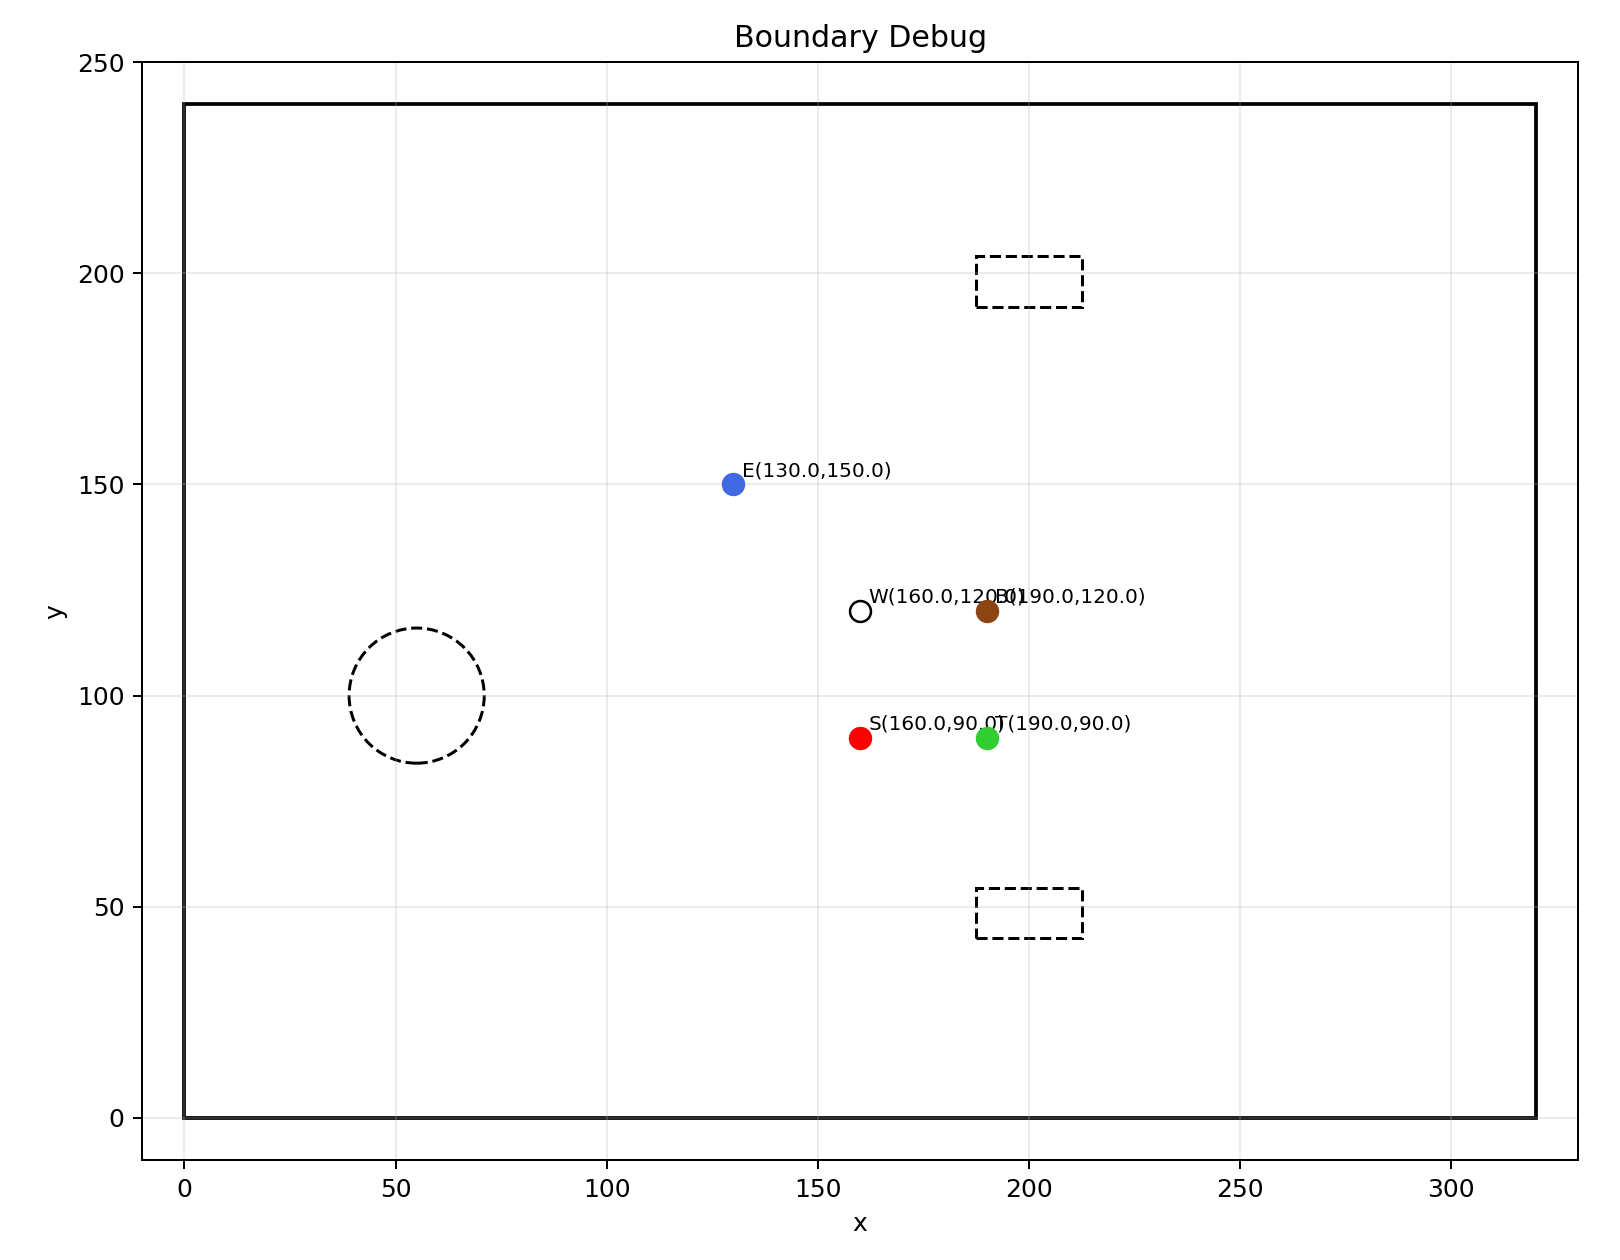
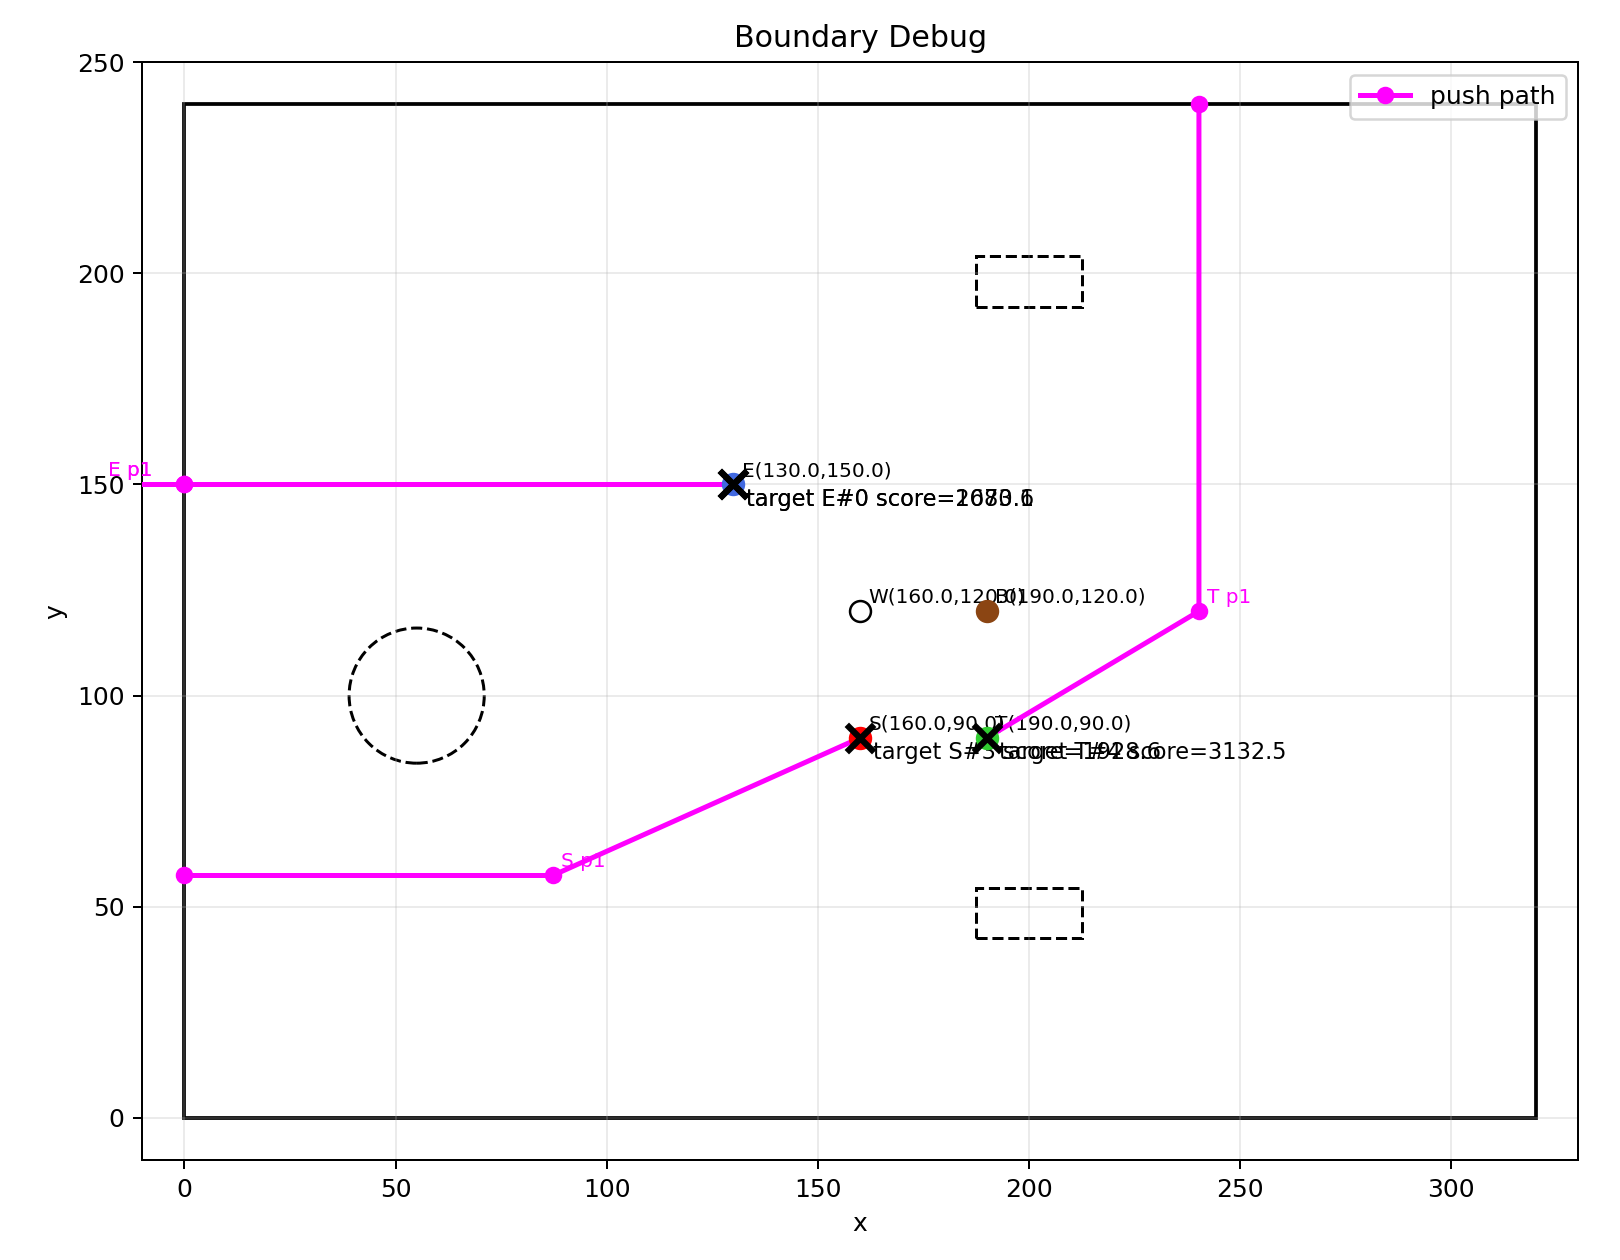
调整速度计算和导航路径，优化滤波器参数以提升性能

diff --git a/main_car/ant_boundary_plan.py b/main_car/ant_boundary_plan.py
@@ -323,7 +323,7 @@ class objects_planner:
         self.last_sandbag_idx = -1
         self.now_idx = 0
         self.judge_start_ticks = 0
-        self.run_speed = self.flash_sys.find_value("long_v_max")
+        self.run_speed = self.flash_sys.find_value("long_v_max") * 0.656467 * 0.72 # 0.656467为速度转换系数，把long_v_max转换为理论的厘米每秒速度，0.72转换为实际
         self.nine_grid = [['','',''],
                           ['','',''],
                           ['','',''],]
@@ -627,10 +627,9 @@ class objects_planner:
                     y1 = i[3] - py
                     y2 = self.my_car.y_current - py
                     distance_from_car = math.sqrt(x1 * x1 + y1 * y1) + math.sqrt(x2 * x2 + y2 * y2)
-                dis_score = 9.69*180/self.run_speed
+                dis_score = 1250 / self.run_speed # 1500为行进途中每秒对应的分数
                 score += push_distance + push_angle*push_angle +distance_from_car*dis_score
-                # 注意：write_str 已禁用，注释掉避免每物体一次无用的字符串分配
-                # self.my_write.write_str("object {} push_dis:{} angle:{} dis:{}\n".format(i[1], push_distance, push_angle*push_angle, distance_from_car*dis_score))
+                self.my_write.write_str("object {} push_dis:{} angle:{} dis:{}\n".format(i[1], push_distance, push_angle*push_angle, distance_from_car*dis_score))
                 self.target_score.append(score)
                 self.now_idx+=1
                 # print("[judge][state2] object {} score cost {} ms".format(i[1], time.ticks_diff(time.ticks_ms(), t_target)))

diff --git a/main_car/user_main.py b/main_car/user_main.py
@@ -465,24 +465,27 @@ def time_pit1_handler(time):
         my_fan.if_fan = False
     """
 
+time__ = 0
 # 定时器3中断处理函数：路径规划与速度规划计算
-def time_pit3_handler(time) -> None:
+def time_pit3_handler(timer) -> None:
+    global time__
     # 角度环计算（10ms）
     angle_pid_compute()
 
     # 任务执行机
     task_machine()
 
-    # 全向定位测试程序
     """
+    # 全向定位测试程序
     if my_state.state == READY_NAVIGATE:
         # my_path.plan_path(245.0, 56.0)
         # my_uart3.write(f"ready_path: {my_path.ready_path}\n")
         my_state.state = NAVIGATE
+        time__ = time.ticks_ms()
         my_car.x_current = 0.0
         my_car.y_current = 0.0
     elif my_state.state == NAVIGATE:
-        my_plan.navigate(path = [[-0.0, 150.0]], target_turn_angle = 30.0)
+        my_plan.navigate(path = [[100.0, 0.0]], target_turn_angle = 0.0)
         # my_plan.navigate(path = [[50.0, 30.0], [50.0, 100.0]], target_turn_angle = 30.0)
         # my_plan.navigate(path = [[160,0],[160,240],[0,240],[-160,240],[-160,0],[0,0]])
         # my_plan.navigate(path = [[-100,20.0],[50, 100.0],[0,240],[130,70],[100,-30],[-10,60],[20,10],[0,0]])
@@ -494,6 +497,7 @@ def time_pit3_handler(time) -> None:
             my_plan.reset_navigate_angle()
             my_state.state = STOP
             my_beep.test()
+            print(f"Navigation finished in {time.ticks_diff(time.ticks_ms(), time__)} ms")
     elif my_state.state == STOP:
         my_plan.stop()
         my_uart3.write(f"x: {my_car.x_current},y: {my_car.y_current}\n")

diff --git a/slave_car/user_main.py b/slave_car/user_main.py
@@ -234,8 +234,8 @@ car_yaw_fil = ant_motor.SlipAveragingFilter(1)
 sin_servo_fil = ant_motor.SlipAveragingFilter(4)    
 cos_servo_fil = ant_motor.SlipAveragingFilter(4)
 # 创建距离控制滤波对象
-dist_fil_L = ant_motor.SlipAveragingFilter(5)
-dist_fil_R = ant_motor.SlipAveragingFilter(5)
+dist_fil_L = ant_motor.SlipAveragingFilter(4)
+dist_fil_R = ant_motor.SlipAveragingFilter(4)
 
 # 创建姿态数据对象
 pose_data = ant_motor.PoseData(my_flash_sys, my_uart3, imu, encoder_ul, encoder_ur, encoder_md, diff_filter_gyroz, acc_x_fil, acc_y_fil, acc_z_fil)
